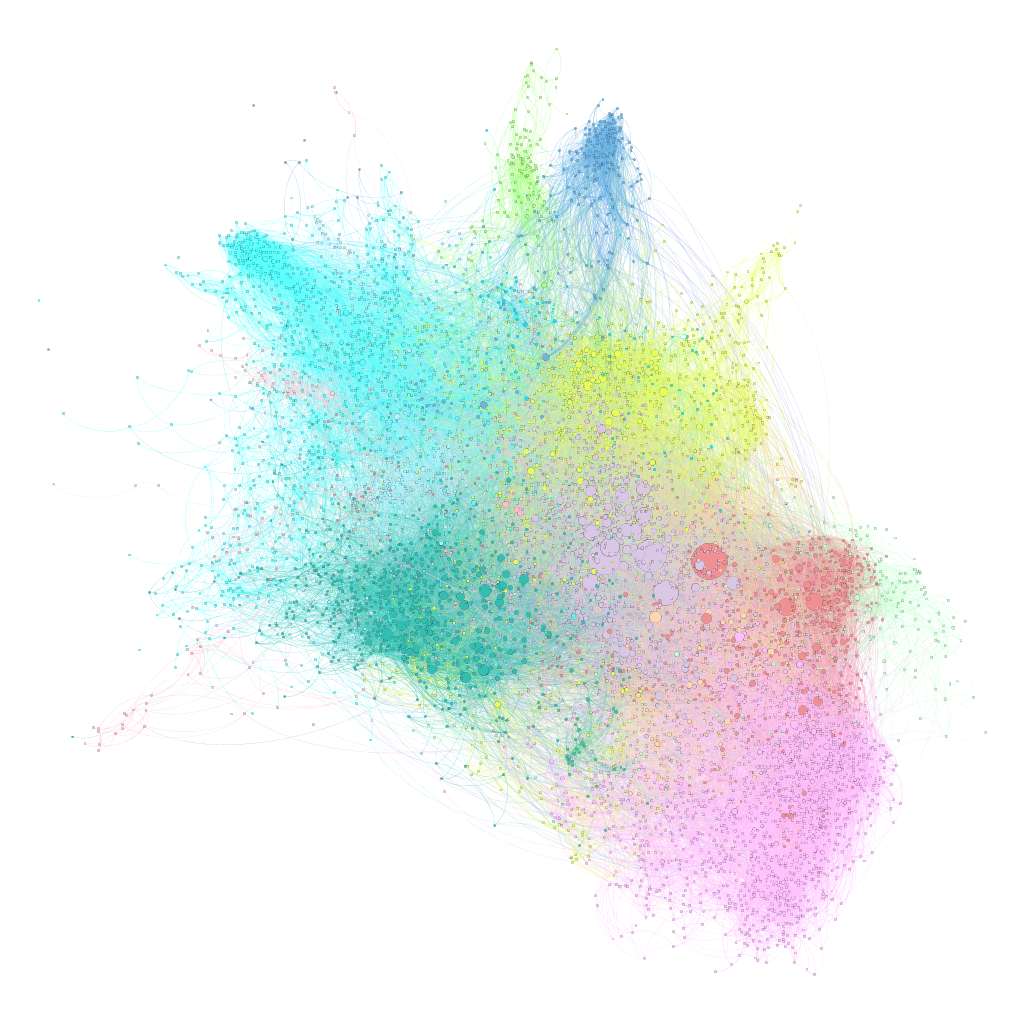
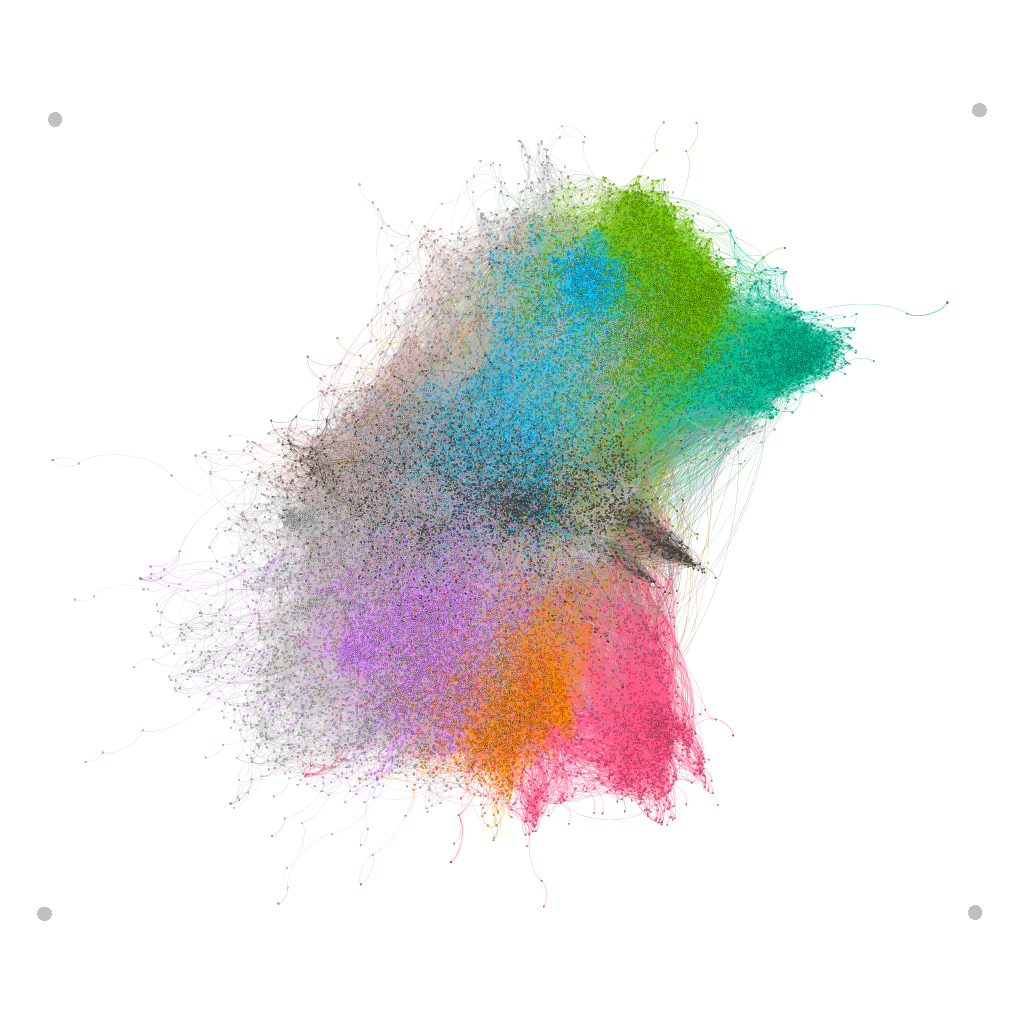
Working d3 pie chart for law article

diff --git a/wip/law.html b/wip/law.html
@@ -1,5 +1,7 @@
 <script type="module" src="https://unpkg.com/img-comparison-slider@3/dist/component/component.esm.js"></script>
 <script nomodule="" src="https://unpkg.com/img-comparison-slider@3/dist/component/component.js"></script>
+<script src="https://d3js.org/d3.v6.min.js"></script>
+<script src="/home/sandy/prj/reasonablypolymorphic.com/site/js/charts.js"></script>
 <link rel="stylesheet" href="https://unpkg.com/img-comparison-slider@3/dist/collection/styles/initial.css">
 
 <script>
@@ -14,38 +16,40 @@ class ColorLegend extends HTMLElement {
     const side = this.hasAttribute('side') ? this.getAttribute('side') : "left";
     const style = document.createElement('style');
 
-    if (side == "left") {
-      style.innerText = `
-      .wrapper::before {
+
+    const psuedo_css = `
         content: '';
         display: inline-block;
         width: 1.2ex;
         height: 1.2ex;
         background-color: ${color};
-        margin-right: 0.5em;
         border: 1px solid black;
-      }
-      .wrapper {
+        `;
+
+    const wrapper_css = `
         display: block;
         line-height: 1rem;
+        text-align: ${side};
         height: 1rem;
+        `;
+
+    if (side == "left") {
+      style.innerText = `
+      .wrapper::before {
+        ${psuedo_css}
+        margin-right: 0.5em;
+      }
+      .wrapper {
+        ${wrapper_css}
       }`;
     } else {
       style.innerText = `
       .wrapper::after {
-        content: '';
-        display: inline-block;
-        width: 1.2ex;
-        height: 1.2ex;
-        background-color: ${color};
+        ${psuedo_css}
         margin-left: 0.5em;
-        border: 1px solid black;
       }
       .wrapper {
-        display: block;
-        line-height: 1rem;
-        text-align: right;
-        height: 1rem;
+        ${wrapper_css}
       }`;
     }
 
@@ -70,6 +74,8 @@ body {
   width: 100%;
   display: flex;
   align-items: center;
+  margin-top: 5em;
+  margin-bottom: 5em;
 }
 
 .three-col .legend {
@@ -91,10 +97,72 @@ body {
   width: 100%;
   text-align: left;
 }
+
+.chart {
+  margin-top: 5em;
+  margin-bottom: 5em;
+}
+
+body > p {
+  text-indent: 2em;
+}
 </style>
 
 
 <h1>HTML Ipsum Presents</h1>
+
+
+<ol>
+<li><a href="https://en.wikipedia.org/wiki/Hunter_v_Southam_Inc">Hunter et al. v. Southam Inc.</a></li>
+<li><a href="https://en.wikipedia.org/wiki/R_v_Big_M_Drug_Mart_Ltd">R. v. Big M Drug Mart Ltd.</a></li>
+<li><a href="https://en.wikipedia.org/wiki/R_v_Oakes">R. v. Oakes</a></li>
+<li><a href="https://en.wikipedia.org/wiki/Reference_Re_BC_Motor_Vehicle_Act">Re B.C. Motor Vehicle Act</a></li>
+<li><a href="https://en.wikipedia.org/wiki/R_v_Edwards_Books_and_Art_Ltd">R. v. Edwards Books and Art Ltd.</a></li>
+<li><a href="https://en.wikipedia.org/wiki/R_v_Therens">R. v. Therens</a></li>
+<li><a href="https://en.wikipedia.org/wiki/R_v_Collins_(1987)">R. v. Collins</a></li>
+<li><a href="https://en.wikipedia.org/wiki/Law_Society_of_Upper_Canada_v_Skapinker">Law society of Upper Canada v. Skapinker</a></li>
+<li><a href="https://en.wikipedia.org/wiki/Singh_v_Canada">Singh v. Minister of Employment and Immigration</a></li>
+<li><a href="https://en.wikipedia.org/wiki/Irwin_Toy_Ltd_v_Quebec_(AG)">Irwin Toy Ltd. v. Quebec (Attorney General)</a></li>
+<li><a href="https://en.wikipedia.org/wiki/Andrews_v_Law_Society_of_British_Columbia">Andrews v. Law Society of British Columbia</a></li>
+<li>R. v. Lyons (MISSING)</li>
+<li><a href="https://en.wikipedia.org/wiki/Slaight_Communications_Inc_v_Davidson">Slaight Communications Inc. v. Davidson</a></li>
+<li><a href="https://en.wikipedia.org/wiki/Retail,_Wholesale_and_Department_Store_Union,_Local_580_v_Dolphin_Delivery_Ltd">RWDSU v. Dolphin Delivery Ltd.</a></li>
+<li><a href="https://en.wikipedia.org/wiki/Citizens_Insurance_Co_of_Canada_v_Parsons">Citizens' and The Queen Insurance Cos. v. Parsons</a></li>
+<li><a href="https://en.wikipedia.org/wiki/R_v_Morgentaler">R. v. Morgentaler</a></li>
+<li>Curr v. The Queen (MISSING)</li>
+<li><a href="https://en.wikipedia.org/wiki/Reference_Re_Alberta_Statutes">Reference Re Alberta Statutes - The Bank Taxation Act; The Credit of Alberta Regulation Act; and the Accurate News and Information Act</a></li>
+<li><a href="https://en.wikipedia.org/wiki/R_v_Keegstra">R. v. Keegstra</a></li>
+<li><a href="https://en.wikipedia.org/wiki/Mills_v_R">Mills v. The Queen</a></li>
+<li><a href="https://en.wikipedia.org/wiki/Reference_Re_Public_Service_Employee_Relations_Act_(Alta)">Reference Re Public Service Employee Relations Act (Alta.)</a></li>
+<li><a href="https://en.wikipedia.org/wiki/Thomson_Newspapers_Co_Ltd_v_Canada_(AG)">Thomson Newspapers Ltd. v. Canada (Director of Investigation and Research, Restrictive Trade Practices Commission)</a></li>
+<li>Attorney-General (Ont.) v. Hamilton Street Railway (MISSING)</li>
+<li>R. v. Beare; R. v. Higgins (MISSING)</li>
+<li><a href="https://en.wikipedia.org/wiki/R_v_Seaboyer">R. v. Seaboyer;  R. v. Gayme</a></li>
+<li><a href="https://en.wikipedia.org/wiki/Proprietary_Articles_Trade_Association_v_Canada_(AG)">Proprietary Articles Trade Association v. Canada (Attorney General)</a></li>
+<li><a href="https://en.wikipedia.org/wiki/Canadian_Union_of_Public_Employees,_Local_963_v_New_Brunswick_Liquor_Corp">C.U.P.E. v. N.B. Liquor Corporation</a></li>
+<li>John Deere Plow Co. Ltd. v. Wharton (MISSING)</li>
+<li>Rothman v. The Queen (MISSING)</li>
+<li><a href="https://en.wikipedia.org/wiki/R_v_Jones">R. v. Jones</a></li>
+<li><a href="https://en.wikipedia.org/wiki/Prostitution_Reference">Reference re ss. 193 and 195.1(1)(C) of the criminal code (Man.)</a></li>
+<li><a href="https://en.wikipedia.org/wiki/Saumur_v_Quebec_(City_of)">Saumur v. City of Quebec</a></li>
+<li><a href="https://en.wikipedia.org/wiki/Edmonton_Journal_v_Alberta_(AG)">Edmonton Journal v. Alberta (Attorney General)</a></li>
+<li><a href="https://en.wikipedia.org/wiki/R_v_Wray">The Queen v. Wray</a></li>
+<li><a href="https://en.wikipedia.org/wiki/Edwards_v_Canada_(AG)">Edwards v. Canada (Attorney General)</a></li>
+<li><a href="https://en.wikipedia.org/wiki/R_v_Sault_Ste-Marie_(City_of)">R. v. Sault Ste. Marie</a></li>
+<li><a href="https://en.wikipedia.org/wiki/Schachter_v_Canada">Schachter v. Canada</a></li>
+<li><a href="https://en.wikipedia.org/wiki/Margarine_Reference">Reference re Validity of Section 5 (a) Dairy Industry Act</a></li>
+<li><a href="https://en.wikipedia.org/wiki/Reference_Re_Anti-Inflation_Act">Re: Anti-Inflation Act</a></li>
+</ol>
+
+<div id="chart1" class="chart">
+select jurisdiction, count(*) as count from decisions group by jurisdiction having count > 10000;
+<script>
+pieChart("#chart1", "/home/sandy/prj/reasonablypolymorphic.com/site/data/1612246436.csv", "jurisdiction", "count")
+</script>
+</div>
+
+
+
 
 <p><strong>Pellentesque habitant morbi tristique</strong> senectus et netus et malesuada fames ac turpis egestas. Vestibulum tortor quam, feugiat vitae, ultricies eget, tempor sit amet, ante. Donec eu libero sit amet quam egestas semper. <em>Aenean ultricies mi vitae est.</em> Mauris placerat eleifend leo. Quisque sit amet est et sapien ullamcorper pharetra. Vestibulum erat wisi, condimentum sed, <code>commodo vitae</code>, ornare sit amet, wisi. Aenean fermentum, elit eget tincidunt condimentum, eros ipsum rutrum orci, sagittis tempus lacus enim ac dui. <a href="#">Donec non enim</a> in turpis pulvinar facilisis. Ut felis.</p>
 
@@ -133,6 +201,156 @@ body {
   <color-legend color="#db352f">1900</color-legend>
   <color-legend color="#dae7bd">1985</color-legend>
   <color-legend color="#8cb7ba">2021</color-legend>
+</div>
+</div>
+
+<p>or by jurisdiction:</p>
+
+<div class="three-col">
+<div class="left legend">
+  <h3>Area</h3>
+  <color-legend color="#ffcfd6" side="right">Constitutional</color-legend>
+  <color-legend color="#59ffff" side="right">Criminal</color-legend>
+  <color-legend color="#32beb3" side="right">Privy Council</color-legend>
+  <color-legend color="#e6fd5c" side="right">Administrative</color-legend>
+  <color-legend color="#dac7e5" side="right">Unk 1</color-legend>
+  <color-legend color="#a9fd7f" side="right">Immigration</color-legend>
+  <color-legend color="#f09095" side="right">Unk 2</color-legend>
+  <color-legend color="#6bb2e5" side="right">Tech</color-legend>
+  <color-legend color="#c3ffcf" side="right">Unk 3</color-legend>
+</div>
+<div class="graph">
+  <img-comparison-slider>
+    <img slot="after" src="file:///home/sandy/prj/reasonablypolymorphic.com/site/images/law/by-module.png" width="100%">
+    <img slot="before" src="file:///home/sandy/prj/reasonablypolymorphic.com/site/images/law/by-jurisdiction.png" width="100%">
+  </img-comparison-slider>
+</div>
+<div class="right legend">
+  <h3>Jurisdiction</h3>
+  <color-legend color="#dddddd" side="right">Federal</color-legend>
+  <color-legend color="#0000dd" side="right">Ontario</color-legend>
+  <color-legend color="#dd0000" side="right">Quebec</color-legend>
+  <color-legend color="#00dd00" side="right">BC</color-legend>
+</div>
+</div>
+
+<p>What happens if we filter out the federal cases here?</p>
+
+<div class="three-col">
+<div class="left legend">
+  <h3>Area</h3>
+  <color-legend color="#ffcfd6" side="right">Constitutional</color-legend>
+  <color-legend color="#59ffff" side="right">Criminal</color-legend>
+  <color-legend color="#32beb3" side="right">Privy Council</color-legend>
+  <color-legend color="#e6fd5c" side="right">Administrative</color-legend>
+  <color-legend color="#dac7e5" side="right">Unk 1</color-legend>
+  <color-legend color="#a9fd7f" side="right">Immigration</color-legend>
+  <color-legend color="#f09095" side="right">Unk 2</color-legend>
+  <color-legend color="#6bb2e5" side="right">Tech</color-legend>
+  <color-legend color="#c3ffcf" side="right">Unk 3</color-legend>
+</div>
+<div class="graph">
+  <img-comparison-slider>
+    <img slot="after" src="file:///home/sandy/prj/reasonablypolymorphic.com/site/images/law/by-module-no-ca.png" width="100%">
+    <img slot="before" src="file:///home/sandy/prj/reasonablypolymorphic.com/site/images/law/by-jurisdiction-no-ca.png" width="100%">
+  </img-comparison-slider>
+</div>
+<div class="right legend">
+  <h3>Jurisdiction</h3>
+  <color-legend color="#dddddd" side="right">Federal</color-legend>
+  <color-legend color="#0000dd" side="right">Ontario</color-legend>
+  <color-legend color="#dd0000" side="right">Quebec</color-legend>
+  <color-legend color="#00dd00" side="right">BC</color-legend>
+</div>
+</div>
+
+<p>We can gain some clarity by filtering out everything except the non-federal cases cited by the SCC. Comparing jurisdiction against module:</p>
+
+<div class="three-col">
+<div class="left legend">
+  <h3>Area</h3>
+  <color-legend color="#ffcfd6" side="right">Constitutional</color-legend>
+  <color-legend color="#59ffff" side="right">Criminal</color-legend>
+  <color-legend color="#32beb3" side="right">Privy Council</color-legend>
+  <color-legend color="#e6fd5c" side="right">Administrative</color-legend>
+  <color-legend color="#dac7e5" side="right">Unk 1</color-legend>
+  <color-legend color="#a9fd7f" side="right">Immigration</color-legend>
+  <color-legend color="#f09095" side="right">Unk 2</color-legend>
+  <color-legend color="#6bb2e5" side="right">Tech</color-legend>
+  <color-legend color="#c3ffcf" side="right">Unk 3</color-legend>
+</div>
+<div class="graph">
+  <img-comparison-slider>
+    <img slot="after" src="file:///home/sandy/prj/reasonablypolymorphic.com/site/images/law/scc-cites-jurisdiction.png" width="100%">
+    <img slot="before" src="file:///home/sandy/prj/reasonablypolymorphic.com/site/images/law/scc-cites-module.png" width="100%">
+  </img-comparison-slider>
+</div>
+<div class="right legend">
+  <h3>Jurisdiction</h3>
+  <color-legend color="#dddddd" side="right">Federal</color-legend>
+  <color-legend color="#0000dd" side="right">Ontario</color-legend>
+  <color-legend color="#dd0000" side="right">Quebec</color-legend>
+  <color-legend color="#00dd00" side="right">BC</color-legend>
+</div>
+</div>
+
+
+
+<p>And jurisdiction against year:</p>
+
+<div class="three-col">
+<div class="left legend">
+  <h3>Area</h3>
+  <color-legend color="#ffcfd6" side="right">Constitutional</color-legend>
+  <color-legend color="#59ffff" side="right">Criminal</color-legend>
+  <color-legend color="#32beb3" side="right">Privy Council</color-legend>
+  <color-legend color="#e6fd5c" side="right">Administrative</color-legend>
+  <color-legend color="#dac7e5" side="right">Unk 1</color-legend>
+  <color-legend color="#a9fd7f" side="right">Immigration</color-legend>
+  <color-legend color="#f09095" side="right">Unk 2</color-legend>
+  <color-legend color="#6bb2e5" side="right">Tech</color-legend>
+  <color-legend color="#c3ffcf" side="right">Unk 3</color-legend>
+</div>
+<div class="graph">
+  <img-comparison-slider>
+    <img slot="after" src="file:///home/sandy/prj/reasonablypolymorphic.com/site/images/law/scc-cites-jurisdiction.png" width="100%">
+    <img slot="before" src="file:///home/sandy/prj/reasonablypolymorphic.com/site/images/law/scc-cites-year.png" width="100%">
+  </img-comparison-slider>
+</div>
+<div class="right legend">
+  <h3>Jurisdiction</h3>
+  <color-legend color="#dddddd" side="right">Federal</color-legend>
+  <color-legend color="#0000dd" side="right">Ontario</color-legend>
+  <color-legend color="#dd0000" side="right">Quebec</color-legend>
+  <color-legend color="#00dd00" side="right">BC</color-legend>
+</div>
+</div>
+
+<div class="three-col">
+<div class="left legend">
+  <h3>Area</h3>
+  <color-legend color="#ffcfd6" side="right">Constitutional</color-legend>
+  <color-legend color="#59ffff" side="right">Criminal</color-legend>
+  <color-legend color="#32beb3" side="right">Privy Council</color-legend>
+  <color-legend color="#e6fd5c" side="right">Administrative</color-legend>
+  <color-legend color="#dac7e5" side="right">Unk 1</color-legend>
+  <color-legend color="#a9fd7f" side="right">Immigration</color-legend>
+  <color-legend color="#f09095" side="right">Unk 2</color-legend>
+  <color-legend color="#6bb2e5" side="right">Tech</color-legend>
+  <color-legend color="#c3ffcf" side="right">Unk 3</color-legend>
+</div>
+<div class="graph">
+  <img-comparison-slider>
+    <img slot="after" src="file:///home/sandy/prj/reasonablypolymorphic.com/site/images/law/by-module-on.png" width="100%">
+    <img slot="before" src="file:///home/sandy/prj/reasonablypolymorphic.com/site/images/law/by-module-bc.png" width="100%">
+  </img-comparison-slider>
+</div>
+<div class="right legend">
+  <h3>Jurisdiction</h3>
+  <color-legend color="#dddddd" side="right">Federal</color-legend>
+  <color-legend color="#0000dd" side="right">Ontario</color-legend>
+  <color-legend color="#dd0000" side="right">Quebec</color-legend>
+  <color-legend color="#00dd00" side="right">BC</color-legend>
 </div>
 </div>
 

diff --git a/site/js/charts.js b/site/js/charts.js
@@ -1,0 +1,53 @@
+function pieChart(sel, csv, key, val) {
+  document.querySelector(sel).textContent = ""
+
+  d3.csv(csv).then((data) => {
+  pie = d3.pie()
+    .padAngle(0.005)
+    .sort(null)
+    .value(d => d[val])
+
+  width = 500
+  height = 500
+
+  const radius = Math.min(width, height) / 2;
+  arc = d3.arc().innerRadius(radius * 0.67).outerRadius(radius - 1);
+
+  color = d3.scaleOrdinal()
+    .domain(data.map(d => d[key]))
+    .range(d3.quantize(t => d3.interpolateSpectral(t * 0.8 + 0.1), data.length).reverse())
+
+  const arcs = pie(data);
+
+  const svg = d3.select(sel).append("svg")
+      .attr("viewBox", [-width / 2, -height / 2, width, height]);
+
+  svg.selectAll("path")
+    .data(arcs)
+    .join("path")
+      .attr("fill", d => color(d.data[key]))
+      .attr("d", arc)
+    .append("title")
+      .text(d => `${d.data[key]}: ${d.data[val].toLocaleString()}`);
+
+  svg.append("g")
+      .attr("font-family", "sans-serif")
+      .attr("font-size", 12)
+      .attr("text-anchor", "middle")
+    .selectAll("text")
+    .data(arcs)
+    .join("text")
+      .attr("transform", d => `translate(${arc.centroid(d)})`)
+      .call(text => text.append("tspan")
+          .attr("y", "-0.4em")
+          .attr("font-weight", "bold")
+          .text(d => d.data[key]))
+      .call(text => text.filter(d => (d.endAngle - d.startAngle) > 0.25).append("tspan")
+          .attr("x", 0)
+          .attr("y", "0.7em")
+          .attr("fill-opacity", 0.7)
+          .text(d => d.data[val].toLocaleString()));
+  })
+}
+
+
